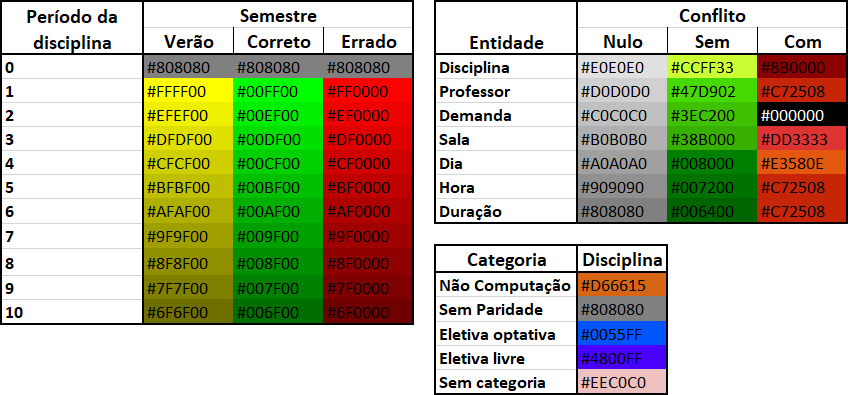
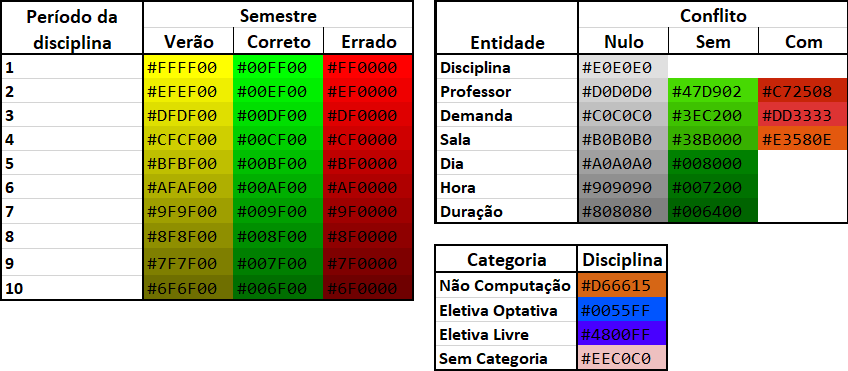
Revisão Tang 14: remover cor errada de conflito
Remover a cor “#000” do conflito de Demanda colocar a mesma cor que o conflito de sala

diff --git a/Files/Texto/LaTeX/files/tex/2.02!5-desenvolvimento.tex b/Files/Texto/LaTeX/files/tex/2.02!5-desenvolvimento.tex
@@ -535,13 +535,15 @@ Embora o sistema seja projetado para ser permissivo quanto a inexistência de ce
   \includegraphics[width=\textwidth]{files/img/2.02!5-desenvolvimento/2.02!5.1.5-conflitos/Paleta de Cores}
 \end{MyCenteredFigure}
 
-Os conflitos que são representados por cores, têm sua paleta de cores representada na \autoref{fig:conflitoDisciplinaPaleta}. Nessa paleta, dispõe-se de 3 conjuntos principais: a distribuição de cores para as disciplinas obrigatórias do curso de Ciência da Computação, que variam de acordo com o semestre em que são ofertadas; a categoria das disciplinas não obrigatórias para o curso de Ciência da Computação; e os conflitos das outras entidades, que são classificados amplamente entre ``com conflito'', ``sem conflito'' e ``conflito nulo''.
+Os conflitos que são representados por cores, têm sua paleta de cores representada na \autoref{fig:conflitoDisciplinaPaleta}. Nessa paleta, dispõe-se 3 conjuntos principais: a distribuição de cores para as disciplinas obrigatórias do curso de Ciência da Computação, que variam de acordo com o semestre em que são ofertadas; a categoria das disciplinas não obrigatórias para o curso de Ciência da Computação; e os conflitos das outras entidades, que são classificados amplamente entre ``com conflito'', ``sem conflito'' e ``conflito nulo''.
+
+Cinco campos se encontram sem cores, sendo eles a \textbf{Disciplina sem conflito}, \textbf{Disciplina com conflito}, \textbf{Dia com conflito}, \textbf{Hora com conflito} e \textbf{Duração com conflito}. No caso dois dois primeiros, melhor explicado \hyperref[sssec:Disciplina]{a seguir}, a representação dos conflitos é substituída pela representação de seu período esperado e de suas categorias. Já os três últimos também não possuem conflitos por si só, o que ocorre é que herdam a cor de fundo das entidades que têm conflito em determinado dia, hora e duração, como é o caso da alocação múltipla de turmas em uma mesma sala ou de professores em turmas simultâneas.
 
 \begin{MyCenteredFigure} \caption{Exemplo de conflito nulo} \label{fig:turmaVazia}
   \includegraphics[width=\textwidth]{files/img/2.02!5-desenvolvimento/2.02!5.1.5-conflitos/Incompletude de informações}
 \end{MyCenteredFigure}
 
-Os \textbf{conflitos nulos} representam a incompletude de informações, e como durante parte do processo de criação da grade não se tem todas as informações sobre as alocações das turmas, ele acaba por ser um dos conflitos mais comuns. Esse conflito, representado pela cor acinzentada, é detectado quando um dos campos não se encontra preenchido, como ilustrado na \autoref{fig:turmaVazia}.
+A \autoref{fig:turmaVazia} ilustra os \textbf{conflitos nulos}. Esse tipo de conflito representa a incompletude de informações, e como durante parte do processo de criação da grade não se tem todas as informações sobre as alocações das turmas, ele acaba por ser um dos conflitos mais comuns. Esse conflito, representado pela cor acinzentada, é detectado quando um dos campos não se encontra preenchido.
 
 \subsubsection{Conflitos de Professores} \label{sssec:Professores}
 
